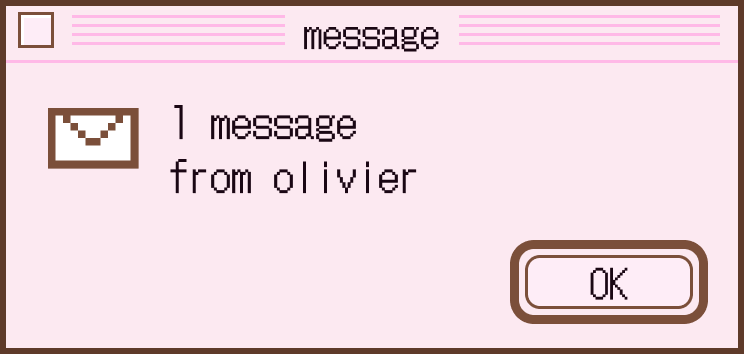
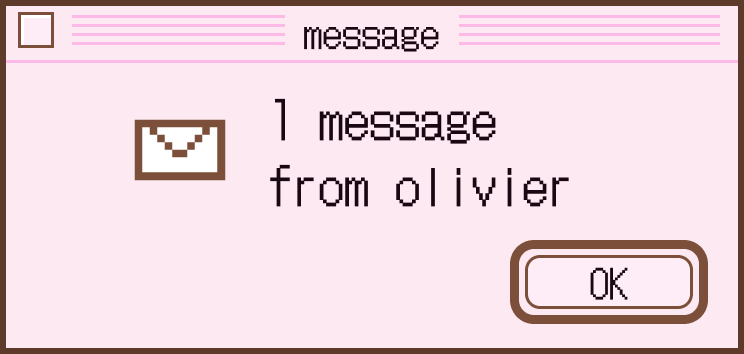
Use one pink X button, enlarge the message text, shrink the guestbook
Every close control now uses the same pixel X box, the home dialog's
message is larger and centred with its envelope, and the guestbook rating
screen drops a size so it no longer crowds the window.

Changed region(s): [[0.0618, 0.2797, 0.7728, 0.5904]]

diff --git a/site.css b/site.css
@@ -364,3 +364,27 @@ input { cursor: text; }
 .hot-enter { left: 69.25%; top: 38.67%; width: 12.69%; height: 17.13%; }
 .hot-send  { left: 87.1%; top: 0; width: 12.9%; height: 32.6%; }
 #guestbook .tools-wrap .tools { transform: none; width: 100%; top: auto; bottom: auto; }
+
+/* ─── one X button everywhere (IMG_7949, recoloured) ─── */
+.box.close, .xbox, .a-close { background: url('./assets/v2/x-box.png') center / 100% 100% no-repeat; border: 0; box-shadow: none; image-rendering: pixelated; }
+.box.close { width: 22px; height: 24px; top: 7px; }
+button.box.close:hover, .xbox:hover, .a-close:hover { filter: brightness(.95) saturate(1.3); background-color: transparent; }
+.xbox { width: 28px; height: 30px; font-size: 0; }
+.a-close { left: 2%; top: 2.5%; width: 5.6%; height: 12.7%; background-color: var(--panel); }
+@media (max-width: 720px) { .box.close { width: 18px; height: 20px; top: 5px; } .xbox { width: 22px; height: 24px; } }
+
+/* ─── guestbook rate screen: a size smaller overall ─── */
+@media (min-width: 721px) {
+  #guestbook .picto { width: 660px; padding-left: 44px; }
+  #guestbook .picto-head { font-size: 18px; }
+  #guestbook .memo-rate { --row: 40px; }
+  #guestbook .memo { border-width: 3px; border-radius: 12px; padding: 7px; }
+  #guestbook .memo::before { inset: 3px; border-width: 2px; border-radius: 9px; }
+  #guestbook .memo-row { border-bottom-width: 2px; }
+  #guestbook .tag { min-width: 112px; font-size: 16px; padding: 0 12px; }
+  #guestbook .tag.plain { font-size: 18px; }
+  #guestbook .memo-rate .val, #guestbook .memo-rate input.val { font-size: 16px; padding: 0 14px; }
+  #guestbook .stars { gap: 8px; }
+  #guestbook .stars button { width: 26px !important; height: 26px !important; }
+  #guestbook .kb-wrap { margin-top: 10px; }
+}

diff --git a/site.js b/site.js
@@ -301,7 +301,7 @@ function fitTools() {
     const ref = w.closest('#guestbook') ? w.closest('.picto') : w.parentElement.querySelector('.memo');
     if (!ref || !ref.offsetHeight) return;
     const avail = w.closest('#guestbook') && !isMobile() ? ref.offsetHeight - 38 : ref.offsetHeight;
-    const max = isMobile() ? 30 : (w.closest('#guestbook') ? 40 : 51);
+    const max = isMobile() ? 30 : (w.closest('#guestbook') ? 32 : 51);
     w.style.width = Math.min(max, avail * 153 / 1858) + 'px';
   });
 }
